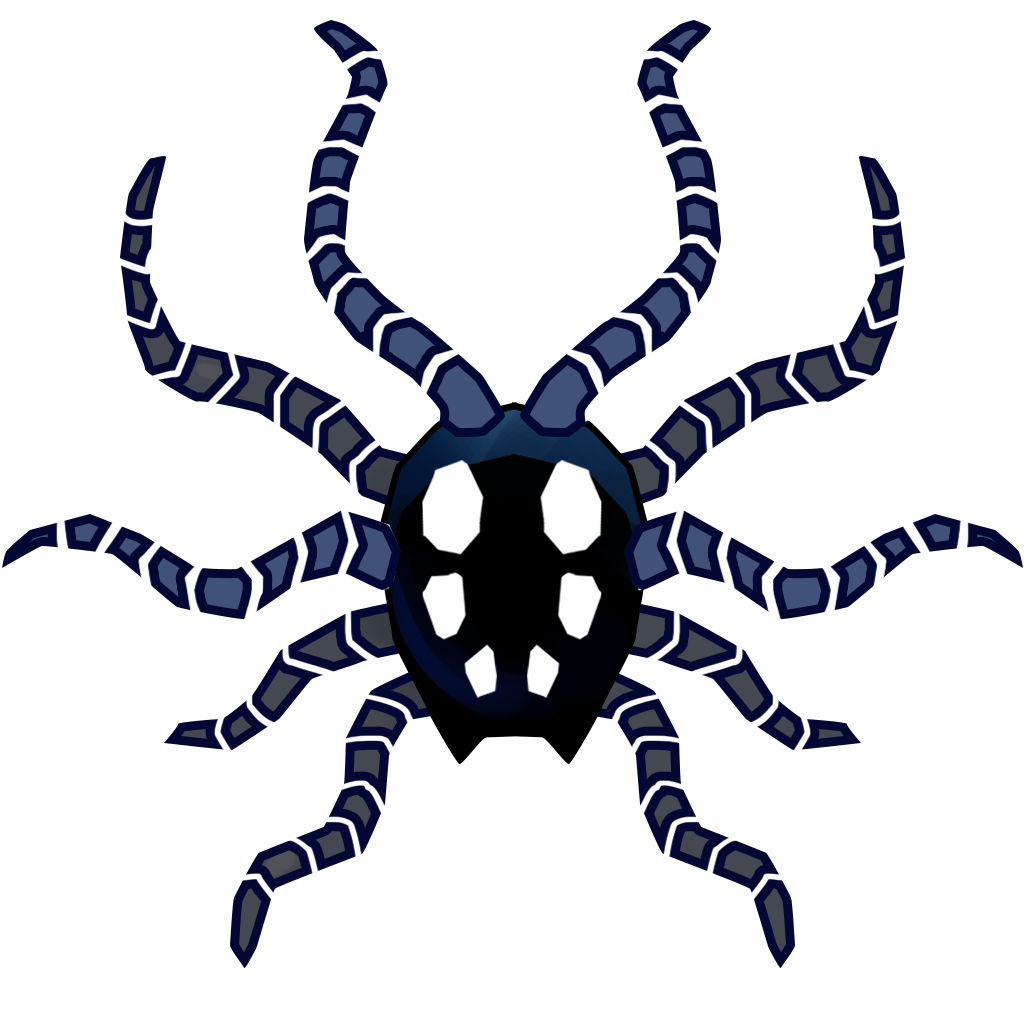
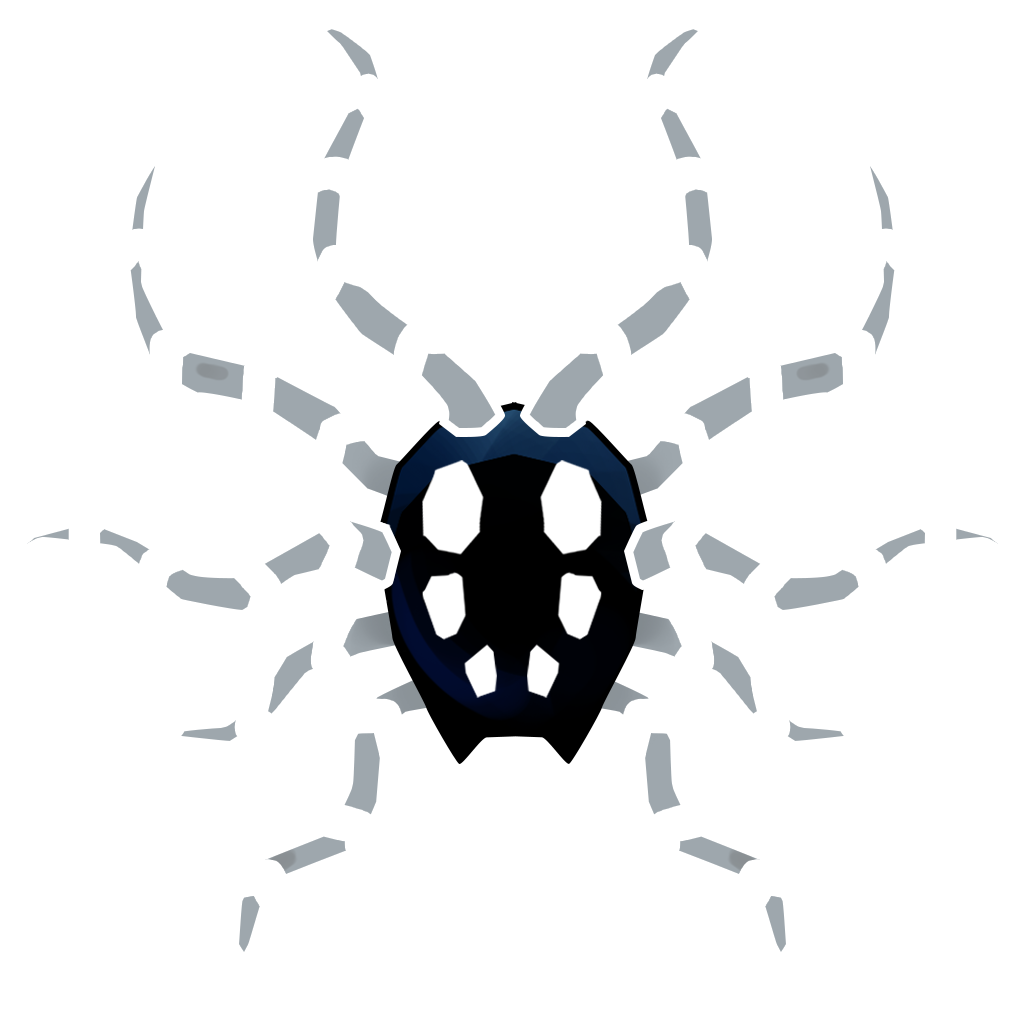
Animate monster

Changed region(s): [[0.0, 0.1562, 0.4375, 0.9375], [0.5625, 0.1562, 1.0, 0.9375], [0.2812, 0.0, 0.7188, 0.4375]]

diff --git a/src/pixi-app.ts b/src/pixi-app.ts
@@ -5,9 +5,13 @@ import {
     Container,
     Renderer,
     Sprite,
+    AnimatedSprite,
 } from "pixi.js";
 
-const spiderTexture = await Assets.load("/tiny-vandals/images/Monster1.png");
+const spiderTextures = [
+    await Assets.load("/tiny-vandals/images/Monster1.png"),
+    await Assets.load("/tiny-vandals/images/Monster1-2.png")
+];
 const paintingTextures = [
     await Assets.load("/tiny-vandals/images/painting01.png"),
     await Assets.load("/tiny-vandals/images/painting02.png"),
@@ -51,8 +55,6 @@ export async function createTinyVandalsWall({
         background: "#7b1c31",
     });
 
-    document.body.appendChild(app.canvas);
-
     const container = new Container();
     container.position.set(0, height);
     container.scale.y = -1;
@@ -83,7 +85,10 @@ export async function createTinyVandalsWall({
     const enemies: Enemy[] = [];
     for (let index = 0; index < 1; index++) {
         // Create a new Sprite from an image path
-        const sprite = new Sprite(spiderTexture);
+        const sprite = new AnimatedSprite(spiderTextures, true);
+        sprite.loop = true;
+        sprite.animationSpeed = 0.04;
+        sprite.play();
 
         // Add to stage
         container.addChild(sprite);
@@ -165,6 +170,7 @@ export async function castRayAtTinyVandalsWall(
         }
         const dist = Math.sqrt((enemy.x - x) ** 2 + (enemy.y - y) ** 2);
         if (dist < 30) {
+            console.log(x, y,)
             enemy.fadeFrame = 30;
             drawDebugCircle(x, y, 0x00ff00);
         }
